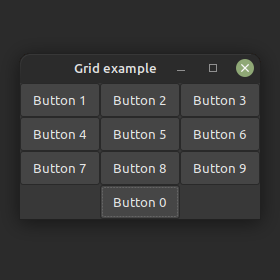
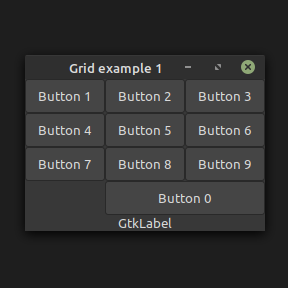
new screenshot

Changed region(s): [[0.0571, 0.2, 0.9429, 0.8], [0.6286, 0.2286, 0.6571, 0.2571]]

diff --git a/src/main.rs b/src/main.rs
@@ -15,19 +15,18 @@ fn main() {
 fn build_ui(application: &gtk::Application) {
     let glade_src = include_str!("grid.ui");
     let builder = Builder::from_string(glade_src);
-
     let window: ApplicationWindow = builder.object("window").expect("Couldn't get window");
     window.set_application(Some(application));
 
-    // button function block
-    let grid: Grid = builder.object("grid").expect("Couldn't get grid");
+    // --> button function block
+    let grid: Grid = builder.object("grid1").expect("Couldn't get grid");
     let button6: Button = builder.object("button0").expect("Couldn't get button0");
     button6.connect_clicked(glib::clone!(@weak grid => move |button| {
         let left_attach = grid.cell_left_attach(button);
         let new_left_attach = if left_attach == 2 { 0 } else { left_attach + 1 };
         grid.set_cell_left_attach(button, new_left_attach);
     }));
-    // button function block
+    // --> button function block
 
     window.show_all();
 }
